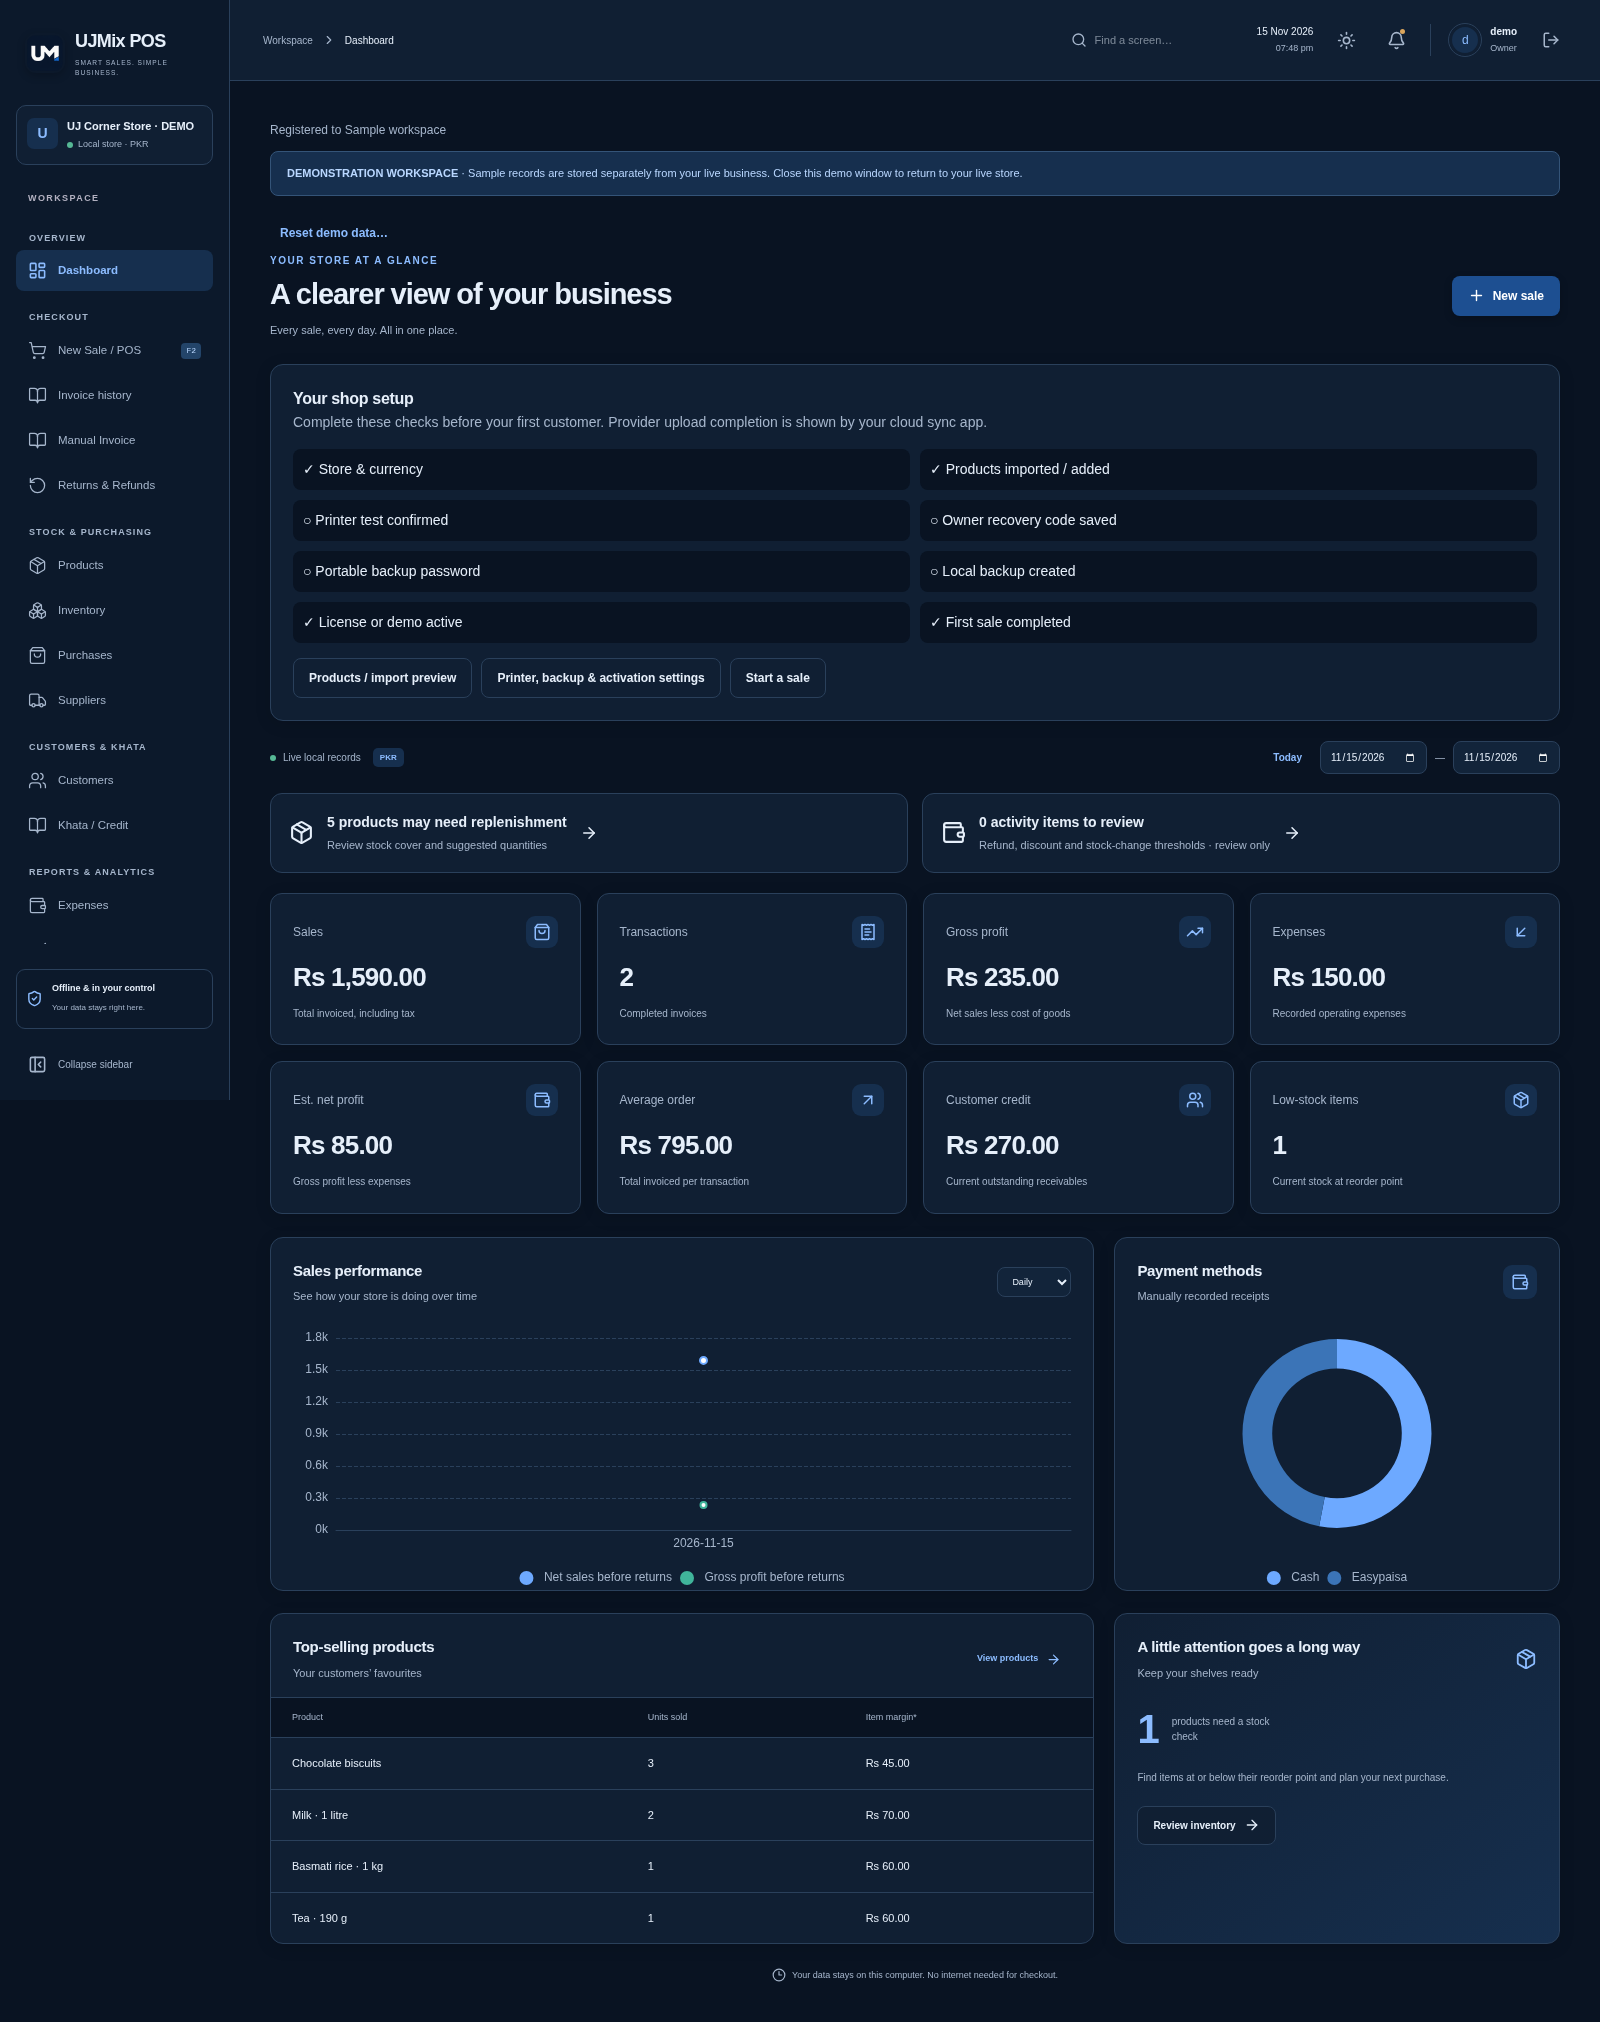
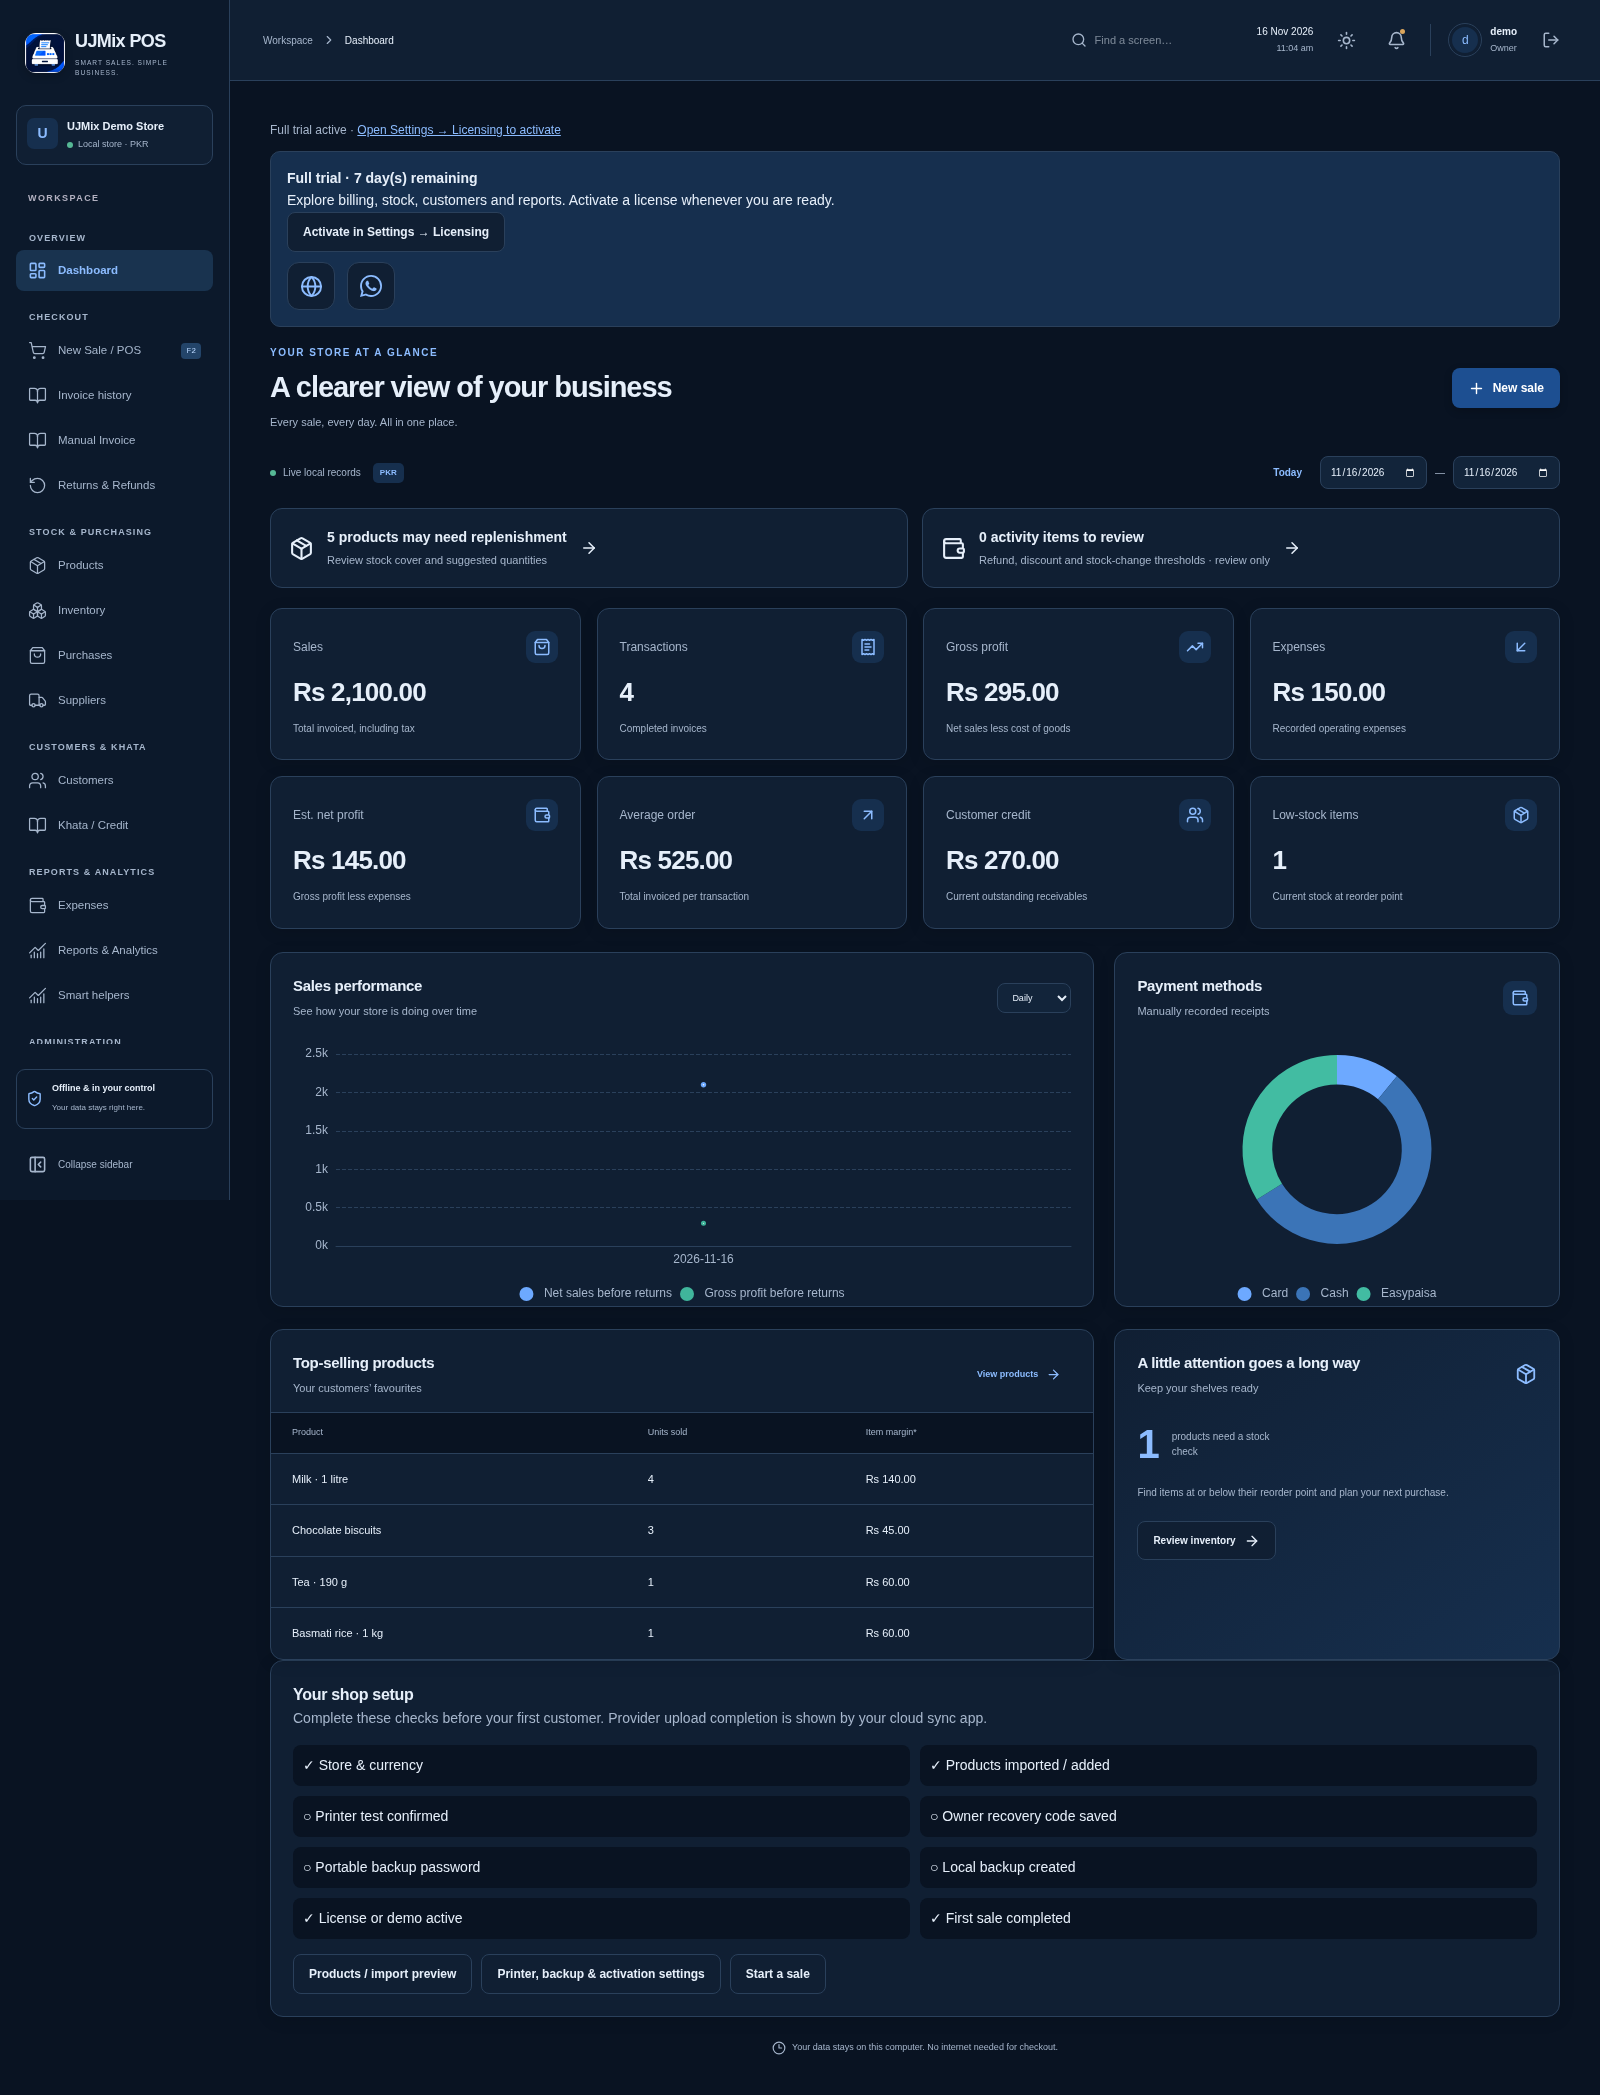
Prepare UJMix POS 0.11.0 customer download and updated guides

diff --git a/scripts/publish-windows.py b/scripts/publish-windows.py
@@ -39,17 +39,17 @@ for p in Path('docs').glob('*'):
  if p.is_file():shutil.copy2(p,stage/p.name)
 (stage/'release-manifest.json').write_text(json.dumps(manifest,indent=2)+'\n')
 (stage/'SHA256SUMS.txt').write_text(''.join(f'{digest(p)}  {p.name}\n' for p in sorted(stage.iterdir())if p.name!='SHA256SUMS.txt'))
-notes=Path('release-notes.md');notes.write_text(f'''UJMix POS {version} for Windows 10/11 x64.\n\nDownload **{installer.name}**. Setup offers with or without optional local AI. No developer tools are required on the customer PC.\n\nSeven-day full trial, new blue branding, adjustable text size, four-hour default idle timeout, secure Remember me, three store phone fields and owner-editable receipt presentation. New invoice numbers start with the store name; saved invoice identities remain unchanged. Software-provider details remain separate at the bottom.\n\nDemo: username **demo**, password **demo123456**. After the trial, activate a 3-month, 6-month, 1-year, 3-year or lifetime license. Earlier UJ Retail customers should contact support for a replacement license before upgrading. Existing store-data identity is preserved. Close the old app and make a tested backup first.\n\nWindows build, archive validation and installed automated diagnostics passed. Physical shop devices and local tax requirements should be checked during your demo.\n\nWebsite: https://www.ujmix.com/ujmix-pos/ · WhatsApp: https://wa.me/923156843398 · Email: usmanjavid@gmail.com\n\nVerify SHA256SUMS.txt. Customer downloads contain no owner tools, issuer keys or application source.\n''')
+notes=Path('release-notes.md');notes.write_text(f'''UJMix POS {version} for Windows 10/11 x64.\n\nDownload **{installer.name}**. Setup offers with or without optional local AI. No developer tools are needed.\n\n- **Quick cash / F6** fills the remaining amount received, preserving other split payments. Quick cash is beside Cash and is recorded as Cash.\n- **Cash or percentage invoice discounts**: choose a default in Settings → Discounts, or switch on a POS/manual invoice. Cashier discounts still require manager approval.\n- New blue checkout-terminal icon. The optional assistant is **UJmix Ai** and its screen/settings appear only when AI is installed.\n- Shop setup is at the bottom of the dashboard, with a completion status.\n- Receipts keep **Software By ujmix.com** and a mobile icon with **+923156843398** on one line. Receipt customization is in owner Settings; final invoices remain view/print screens.\n\nSeven-day full trial; demo username **demo**, password **demo123456**. Activate a 3-month, 6-month, 1-year, 3-year or lifetime license after the trial. Licenses issued for UJMix POS 0.10.0 remain valid. Earlier UJ Retail license holders should contact support for reissue.\n\nBefore upgrading, close the application and make a tested backup. Windows build, archive validation, upgrade from 0.10.0 and installed diagnostics with/without AI passed. Test your own printer, scanner and local tax requirements during the demo.\n\nWebsite: https://www.ujmix.com/ujmix-pos/ · WhatsApp: https://wa.me/923156843398 · Email: usmanjavid@gmail.com\n\nVerify SHA256SUMS.txt. Customer downloads contain no owner tools, issuer keys or application source.\n''')
 tag='v'+version
 existing=next((r for r in json.loads(command(['gh','api',f'repos/{repo}/releases?per_page=100']))if r['tag_name']==tag),None)
 if existing is not None:
  assert existing['draft'],'Published versions are immutable'
- subprocess.run(['gh','release','edit',tag,'--repo',repo,'--title',f'UJMix POS {version} — Windows x64','--notes-file',str(notes),'--prerelease'],check=True)
-else:subprocess.run(['gh','release','create',tag,'--repo',repo,'--title',f'UJMix POS {version} — Windows x64','--notes-file',str(notes),'--draft','--prerelease'],check=True)
+ subprocess.run(['gh','release','edit',tag,'--repo',repo,'--title',f'UJMix POS {version} — Windows x64','--notes-file',str(notes),'--prerelease=false'],check=True)
+else:subprocess.run(['gh','release','create',tag,'--repo',repo,'--title',f'UJMix POS {version} — Windows x64','--notes-file',str(notes),'--draft','--prerelease=false'],check=True)
 subprocess.run(['gh','release','upload',tag,'--repo',repo,'--clobber',*[str(p) for p in sorted(stage.iterdir())]],check=True)
 release=next(r for r in json.loads(command(['gh','api',f'repos/{repo}/releases?per_page=100']))if r['tag_name']==tag);remote={a['name']:a for a in release['assets']}
 for p in stage.iterdir():
  item=remote[p.name];assert item['state']=='uploaded' and item['size']==p.stat().st_size
  if item.get('digest'):assert item['digest']=='sha256:'+digest(p)
-subprocess.run(['gh','release','edit',tag,'--repo',repo,'--draft=false','--prerelease'],check=True)
+subprocess.run(['gh','release','edit',tag,'--repo',repo,'--draft=false','--prerelease=false','--latest'],check=True)
 print(f'https://github.com/{repo}/releases/tag/{tag}')

diff --git a/docs/QUICK-START.md b/docs/QUICK-START.md
@@ -13,12 +13,12 @@ UJMix POS offers a full seven-day trial from first use. After it ends, activate 
 
 In Appearance, use A+ / A− to adjust interface text size. New stores default to a four-hour idle timeout. Remember me can restore sign-in on your own Windows account until that timeout, explicit sign-out or 30 days. Your password is not saved. Demo login: demo / demo123456.
 
-Store details support three phone numbers. The owner can customize receipt messages, visible details and paper size. New invoice numbers start with the store name. Saved invoice numbers and financial amounts stay unchanged; the software-provider credit stays separate at the bottom.
+Store details support three phone numbers. In Settings → Tax & receipts, the owner can customize receipt messages, visible details and paper size. Saved invoices have no receipt-edit button. New invoice numbers start with the store name. Saved invoice numbers and financial amounts stay unchanged; Software By ujmix.com and a mobile icon with +923156843398 stay separate at the bottom on one line.
 
-At checkout, scan a barcode or type SKU/name and press Enter. Up/down adjust the selected line. Unfinished carts and manual invoices are saved in the encrypted database; recovery does not complete a sale automatically. Review recovered quantities and current prices. Invoice history supports search, reprint and authorized POS refunds. Cashier discounts/refunds require an owner or manager's credentials and reason. Manual invoices do not change inventory, POS sales, cashbook or customer credit.
+At checkout, scan a barcode or type SKU/name and press Enter. Up/down adjust the selected line. Quick cash appears after Cash in the payment choices and as a button below Amount received. Click it or press F6 to fill the remaining total; split-payment amounts are preserved, and the filled payment is recorded as Cash. Settings → Discounts sets a Cash or Percentage default for new POS sales and manual invoices. Switch the discount type on an invoice if needed; switching clears the entered discount. Item discounts remain cash amounts. Unfinished carts and manual invoices are saved in the encrypted database; recovery does not complete a sale automatically. Review recovered quantities and current prices. Invoice history supports search, reprint and authorized POS refunds. Cashier discounts/refunds require an owner or manager's credentials and reason. Manual invoices do not change inventory, POS sales, cashbook or customer credit.
 
-Instant insight buttons use local database queries without loading AI. Optional local AI interprets questions on this PC; financial results still use approved database queries. Leave Eco mode on older PCs; Automatic can benchmark CPU versus available Vulkan acceleration. An Intel iGPU is not guaranteed to accelerate inference. AI is loaded on demand and normally unloads after ten idle minutes; settings can change this.
+Instant insight buttons use local database queries without loading AI. The UJmix Ai screen and AI settings appear only when the optional model and CPU runtime are installed. Optional local AI interprets questions on this PC; financial results still use approved database queries. Leave Eco mode on older PCs; Automatic can benchmark CPU versus available Vulkan acceleration. An Intel iGPU is not guaranteed to accelerate inference. AI is loaded on demand and normally unloads after ten idle minutes; settings can change this.
 
-Use the readiness checklist and run separate demo data before using live records. Demo reset affects only the demo profile. True fullscreen exits with Esc. Diagnostics can be previewed and saved locally; sending them to support is your choice.
+The Your shop setup checklist is at the bottom of the dashboard; all completed ticks show Setup Complete. Use the readiness checklist and run separate demo data before using live records. Demo reset affects only the demo profile. True fullscreen exits with Esc. Diagnostics can be previewed and saved locally; sending them to support is your choice.
 
 Support: https://www.ujmix.com/ujmix-pos/ · WhatsApp https://wa.me/923156843398

diff --git a/README.md b/README.md
@@ -8,17 +8,21 @@ This is the official customer download repository. Application development is pr
 
 ## Download
 
-Windows installers are published under [Releases](https://github.com/usmanjavid/ujmix-pos/releases) after the Windows build and installation checks pass. Choose installation with or without optional local AI.
+Windows installers are published under [Releases](https://github.com/usmanjavid/ujmix-pos/releases) after the Windows build and installation checks pass. Choose installation with or without optional local AI. [Download version 0.11.0](https://github.com/usmanjavid/ujmix-pos/releases/tag/v0.11.0).
 
 ## What you can do
 
 - Try the full store features for seven days, then activate a purchased license.
 - Scan barcodes, create invoices, view history and manage product stock and customer balances.
-- Use three store contact numbers and customize receipt details, messages and paper size. The software-provider credit stays separate at the bottom.
+- Use Quick cash (F6) for the remaining bill balance, with split payments preserved.
+- Choose Cash or Percentage invoice discounts in Settings and switch on an individual POS or manual invoice.
+- Use three store contact numbers and customize receipt details, messages and paper size. Customize receipts in owner Settings. Software By ujmix.com and a mobile icon with +923156843398 stay on one line at the bottom, separate from your shop details.
 - Increase or decrease interface font size. New stores use a four-hour idle timeout; the owner can change it.
 - Select Remember me on a trusted Windows account. Sign-out and the configured idle timeout end remembered sign-in; the password is not saved.
 - Choose from 165 currency options and six core interface languages: English, Spanish, French, Arabic, Hindi and Urdu. Each store uses one accounting currency; some help text remains in English.
 - Make local backups or select a folder synced by your own OneDrive, Proton Drive, Google Drive or Dropbox desktop app.
+
+The optional UJmix Ai assistant and AI settings appear only if the AI model and runtime are installed. The shop setup checklist sits at the bottom of the dashboard.
 
 ## Demo preview
 
